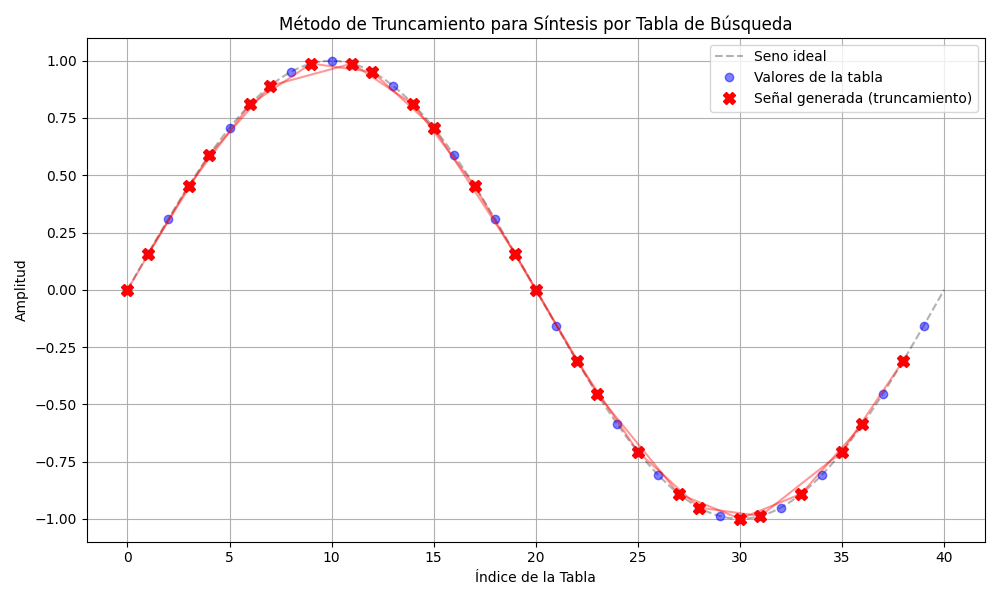
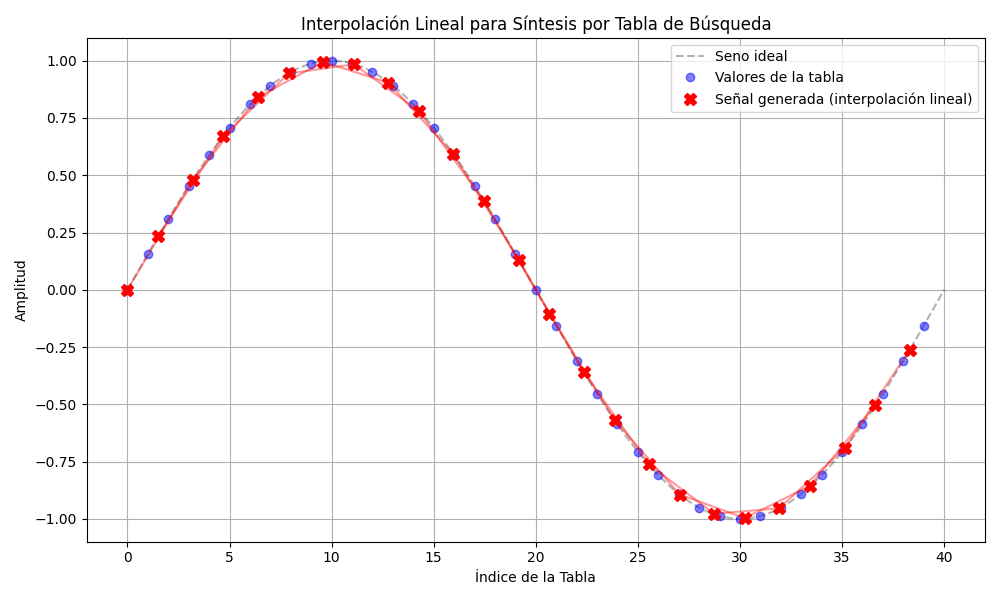
Correcciones 2

diff --git a/scripts/plot_seno.py b/scripts/plot_seno.py
@@ -22,8 +22,10 @@ def main():
     index = 0.0
     for i in range(num_muestras):
         idx_entero = int(index)
-        senal_generada[i] = tabla[idx_entero]
-        indices_usados.append((i, idx_entero))
+        fraccion = index - idx_entero
+        valor = tabla[idx_entero] * (1.0 - fraccion) + tabla[(idx_entero + 1) % N] * fraccion
+        senal_generada[i] = valor
+        indices_usados.append((i, index))
         index += step
         if index >= N:
             index -= N
@@ -42,14 +44,14 @@ def main():
     # Puntos seleccionados para la señal generada
     x_gen = [item[1] for item in indices_usados]
     y_gen = senal_generada
-    ax.plot(x_gen, y_gen, 'rX', markersize=8, label='Señal generada (truncamiento)')
+    ax.plot(x_gen, y_gen, 'rX', markersize=8, label='Señal generada (interpolación lineal)')
     
     # Conectar los valores seleccionados en el orden de generación
     for i in range(len(x_gen)-1):
         if x_gen[i+1] > x_gen[i]:
             ax.plot([x_gen[i], x_gen[i+1]], [y_gen[i], y_gen[i+1]], 'r-', alpha=0.4)
             
-    ax.set_title("Método de Truncamiento para Síntesis por Tabla de Búsqueda")
+    ax.set_title("Interpolación Lineal para Síntesis por Tabla de Búsqueda")
     ax.set_xlabel("Índice de la Tabla")
     ax.set_ylabel("Amplitud")
     ax.legend()
